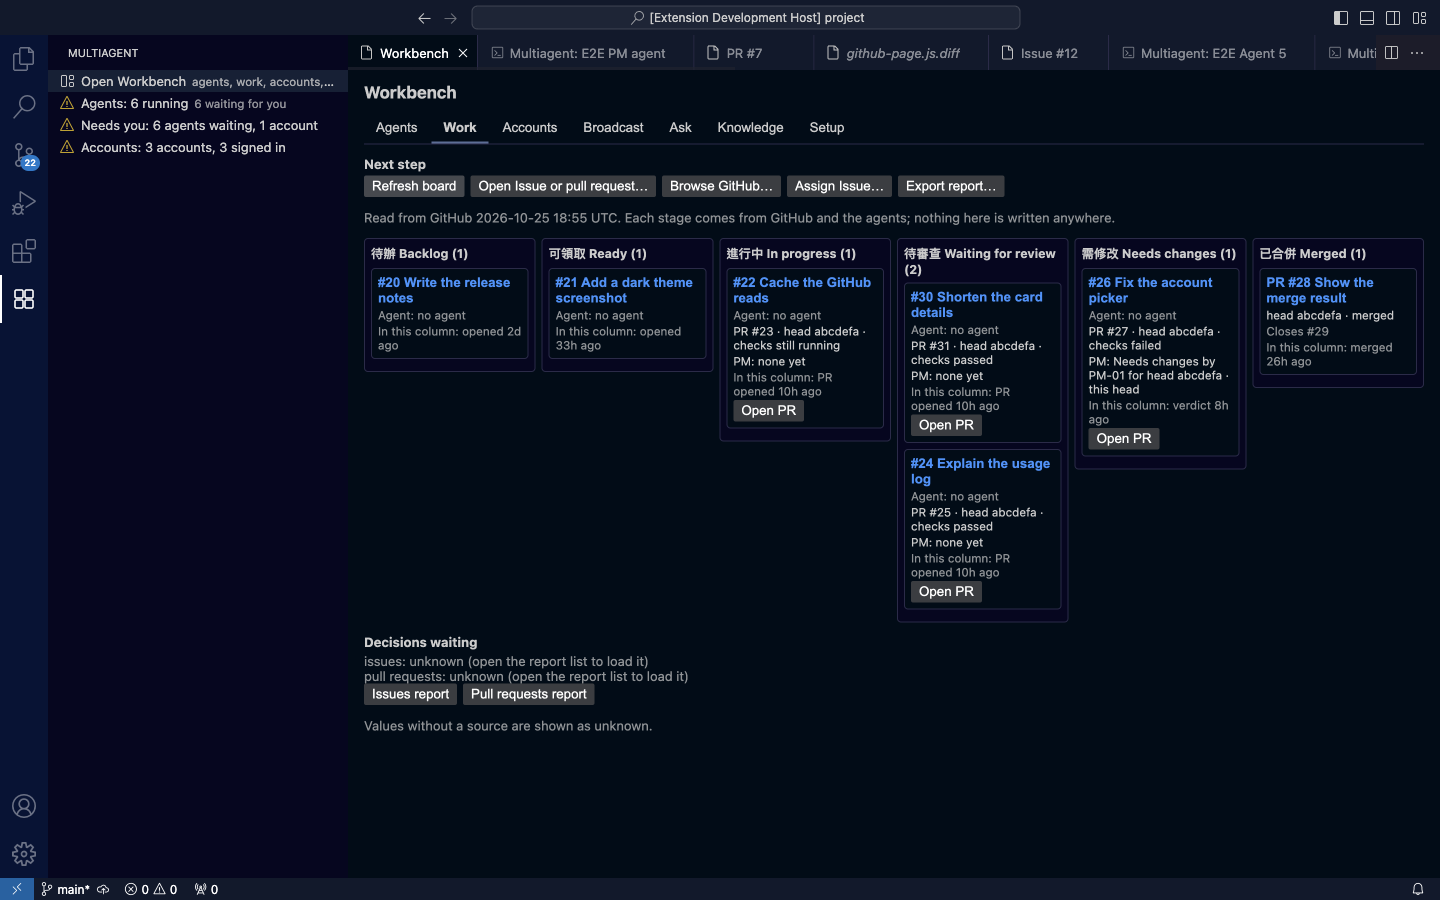
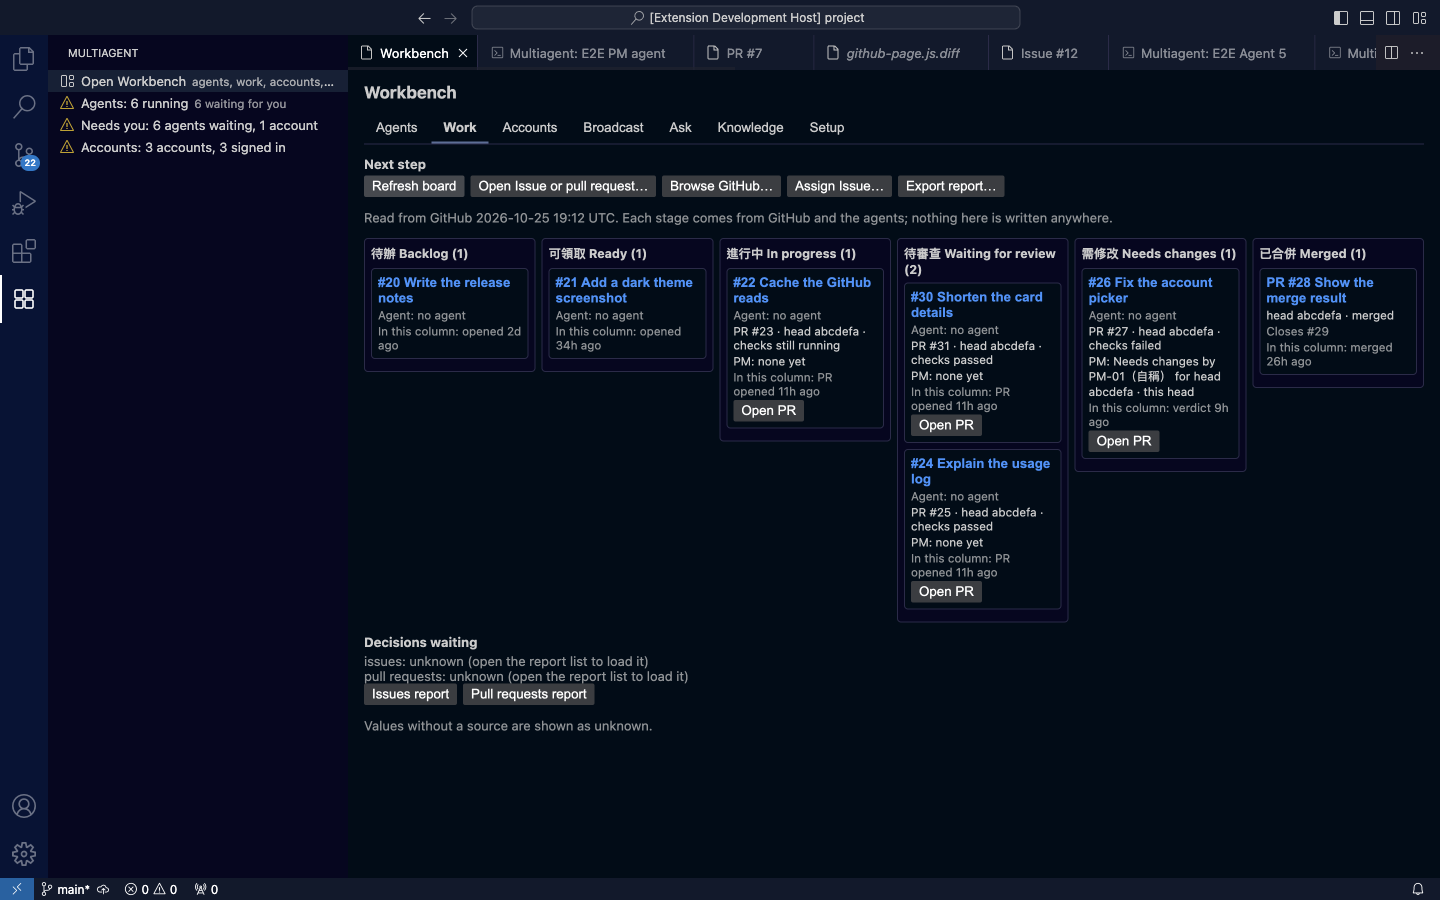
fix(workbench): the board says who wrote a verdict as the page's badges do: 管理者, or PM-01（自稱）(Refs #397)

diff --git a/test/commandCenter/board.test.js b/test/commandCenter/board.test.js
@@ -40,10 +40,10 @@ test('each open Issue is in the column of its stage, derived from GitHub and the
   assert.equal(cardOf(built, 'issue:3').inColumn, 'unknown', 'an agent with no pull request: when it started is not read');
   assert.deepEqual(cardOf(built, 'issue:5').pr, { number: 50, draft: false, head: 'aaaaaaa', ci: 'checks passed', verdict: 'none yet' });
   assert.equal(cardOf(built, 'issue:5').inColumn, 'PR opened 10h ago');
-  assert.equal(cardOf(built, 'issue:6').pr.verdict, 'Needs changes by PM-01 for head aaaaaaa · this head');
+  assert.equal(cardOf(built, 'issue:6').pr.verdict, 'Needs changes by PM-01（自稱） for head aaaaaaa · this head');
   assert.equal(cardOf(built, 'issue:6').inColumn, 'verdict 2h ago');
   // A Pass for an older head does not cover the new one: back in review, its checks are the new head's.
-  assert.equal(cardOf(built, 'issue:7').pr.verdict, 'Pass by PM-01 for head aaaaaaa · an older head');
+  assert.equal(cardOf(built, 'issue:7').pr.verdict, 'Pass by PM-01（自稱） for head aaaaaaa · an older head');
   assert.equal(cardOf(built, 'issue:7').pr.ci, 'checks failed');
   assert.equal(cardOf(built, 'issue:7').inColumn, 'unknown', 'when the new head was pushed is not read');
 });
@@ -53,10 +53,10 @@ test('Needs changes stays the stage after a new head until a newer verdict; a Pa
   const pass = comment(`— PM-01\n結論：Pass｜head \`${NEW_HEAD.slice(0, 7)}\``, { createdAt: hoursAgo(1) });
   const moved = board({ issues: ok([issue(8)]), pullRequests: ok([pr(80, [8], { headSha: NEW_HEAD })]), details: { 80: detail([needs]) } });
   assert.equal(where(moved)['issue:8'], 'changes');
-  assert.equal(cardOf(moved, 'issue:8').pr.verdict, 'Needs changes by PM-01 for head aaaaaaa · an older head');
+  assert.equal(cardOf(moved, 'issue:8').pr.verdict, 'Needs changes by PM-01（自稱） for head aaaaaaa · an older head');
   const passed = board({ issues: ok([issue(8)]), pullRequests: ok([pr(80, [8], { headSha: NEW_HEAD })]), details: { 80: detail([needs, pass]) } });
   assert.equal(where(passed)['issue:8'], 'review');
-  assert.equal(cardOf(passed, 'issue:8').pr.verdict, 'Pass by PM-01 for head bbbbbbb · this head · waiting for merge');
+  assert.equal(cardOf(passed, 'issue:8').pr.verdict, 'Pass by PM-01（自稱） for head bbbbbbb · this head · waiting for merge');
 });
 
 test('a verdict counts only from a trusted author: the owner\'s own recorded post, or a PM signature on the owner\'s account (#397, #241)', () => {
@@ -76,7 +76,9 @@ test('a verdict counts only from a trusted author: the owner\'s own recorded pos
   // The owner's own post, recorded by its id and the hash of its text, counts unsigned; changed afterwards, it does not.
   const own = at('結論：Needs changes');
   const ownerPosts = { comments: new Map([[own.id, bodyHash(own.body)]]), reviews: new Map() };
-  assert.equal(where(board({ issues: ok([issue(9)]), pullRequests: ok([pr(90, [9])]), details: { 90: detail([own]) }, ownerPosts }))['issue:9'], 'changes');
+  const byOwner = board({ issues: ok([issue(9)]), pullRequests: ok([pr(90, [9])]), details: { 90: detail([own]) }, ownerPosts });
+  assert.equal(where(byOwner)['issue:9'], 'changes');
+  assert.match(cardOf(byOwner, 'issue:9').pr.verdict, /^Needs changes by 管理者 · head not stated$/, 'the owner\'s own post is said as 管理者, like the page badge');
   const edited = { ...own, body: '結論：Needs changes (edited)' };
   assert.equal(where(board({ issues: ok([issue(9)]), pullRequests: ok([pr(90, [9])]), details: { 90: detail([edited]) }, ownerPosts }))['issue:9'], 'review');
   // A formal review signed by a PM counts as well; the login is the review's reviewer.

diff --git a/src/commandCenter/board.js b/src/commandCenter/board.js
@@ -55,14 +55,15 @@ function trustedVerdict(posts, { owner, ownerPosts, head }) {
     if (!isPlain(post) || typeof post.body !== 'string') continue;
     // The repository owner's account (#241): everyone else's words are comments, not results.
     if (typeof post.author !== 'string' || typeof owner !== 'string' || owner === '' || post.author.toLowerCase() !== owner.toLowerCase()) continue;
-    // That account is shared with the agents (#342): only the owner's own recorded post, or one signed by a PM, is a verdict.
+    // That account is shared with the agents (#342): only the owner's own recorded post, or one signed by a PM, is a verdict. Who wrote
+    // it is said as the page's badges say it: 管理者, or the signature with （自稱）, since a signature is only a claim.
     const author = authorOf(post, post.kind === 'review' ? 'review' : 'comment', ownerPosts ?? null);
     const trusted = author.who === 'owner' || (author.who === 'agent' && PM_CODENAME.test(author.codename ?? ''));
     if (!trusted) continue;
     const conclusion = parseConclusion(post.body, head);
     if (!conclusion) continue;
     const at = timeOf(post.createdAt ?? post.submittedAt);
-    if (newest === null || (at ?? -1) > (newest.at ?? -1)) newest = { ...conclusion, at, by: author.who === 'owner' ? '管理者' : author.codename };
+    if (newest === null || (at ?? -1) > (newest.at ?? -1)) newest = { ...conclusion, at, by: author.who === 'owner' ? '管理者' : `${author.codename}（自稱）` };
   }
   return newest;
 }

diff --git a/test/e2e/steps.js b/test/e2e/steps.js
@@ -955,7 +955,7 @@ const ITEMS = [
           const forged = lane('review').locator('.work-card', { hasText: '#30 ' }).first();
           check('a verdict typed by another account moves nothing', await textOf(forged, 'the card of #30'), /PM: none yet/);
           const changed = lane('changes').locator('.work-card').first();
-          check('the card says the PR, head, checks, the verdict and since when', await textOf(changed, 'the card of #26'), (text) => /PR #27 · head abcdefa · checks failed/.test(text) && /PM: Needs changes by PM-01 for head abcdefa · this head/.test(text) && /In this column: verdict \d+[mhd] ago/.test(text) && /Agent: no agent/.test(text));
+          check('the card says the PR, head, checks, the verdict and since when', await textOf(changed, 'the card of #26'), (text) => /PR #27 · head abcdefa · checks failed/.test(text) && /PM: Needs changes by PM-01（自稱） for head abcdefa · this head/.test(text) && /In this column: verdict \d+[mhd] ago/.test(text) && /Agent: no agent/.test(text));
           await frame.locator('.board').first().scrollIntoViewIfNeeded();
           await clearNotifications(page);
         }
